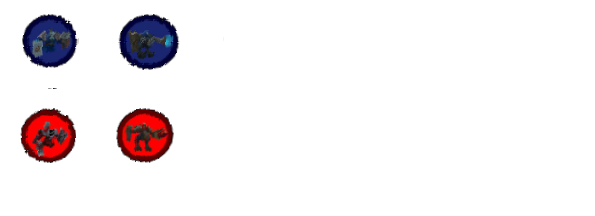
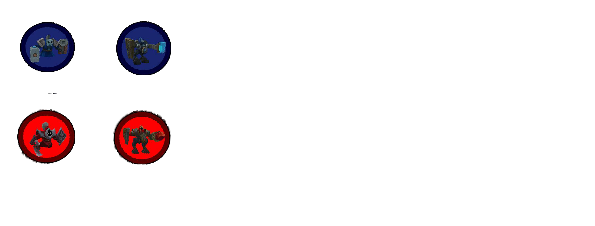
Mejora de imagenes

diff --git a/Chess/Content/chess.css b/Chess/Content/chess.css
@@ -112,13 +112,13 @@ div.blackPawn
     z-index:99;*/
 }
 
-Crown
+div.blackCrown
 {
     background-position: -110px -15px;
     background-image: url('../Content/pieces.png');
     background-repeat: no-repeat;
     float: left;
-    width: 73px;
+    width: 60px;
     height: 60px;
     /*position:absolute;
     z-index:99;*/
@@ -130,6 +130,6 @@ div.whiteCrown
     background-image: url('../Content/pieces.png');
     background-repeat: no-repeat;
     float: left;
-    width: 73px;
+    width: 60px;
     height: 60px;
 }

diff --git a/Chess/Controllers/HomeController.cs b/Chess/Controllers/HomeController.cs
@@ -138,37 +138,27 @@ namespace Chess.Controllers
                             }
                         }
                         isMoveable = true;
-
-                        /*if(piece.color == "White" && move.row == 1 && piece.name == "pawn")
+                        //Verificación para convertir la pieza en corona
+                        /*if (piece.name == "pawn" && (move.row == 1 || move.row == 8))
                         {
                             pieces Pieces = new pieces();//newCrown
                             Pieces.crown.col = move.col;
                             Pieces.crown.id = piece.id;
-                            Pieces.crown.row = move.col;
-                            Pieces.crown.color = "White";
-                            board.removePiece(piece.id);
-                            board.pieces.Add(Pieces.crown);
-                            crownID = piece.id;
-                        }
-                        else if (piece.color == "Black" && move.row == 8 && piece.name == "pawn")
-                        {
-                            pieces Pieces = new pieces();//newCrown
-                            Pieces.crown.col = move.col;
-                            Pieces.crown.id = piece.id;
-                            Pieces.crown.row = move.col;
-                            Pieces.crown.color = "Black";
+                            Pieces.crown.row = move.col;        
+                            piece.color = piece.color;
                             board.removePiece(piece.id);
                             board.pieces.Add(Pieces.crown);
                             crownID = piece.id;
                         }*/
-                        /*pieces Pieces = new pieces();//newCrown
+                        //PARCHE, Convierte una ficha en crown
+                        pieces Pieces = new pieces();//newCrown
                         Pieces.crown.col = move.col;
                         Pieces.crown.id = piece.id;
-                        Pieces.crown.row = move.row;
-                        Pieces.crown.color = piece.color;
+                        Pieces.crown.row = move.col;
+                        piece.color = piece.color;
                         board.removePiece(piece.id);
                         board.pieces.Add(Pieces.crown);
-                        crownID = piece.id;*/
+                        crownID = piece.id;
 
                         break;
                     }

diff --git a/Chess/Models/Board.cs b/Chess/Models/Board.cs
@@ -81,7 +81,7 @@ namespace Chess.Models
                 return true;
             }
             if (col > 1 && row < 6 &&
-               getPiece(row + 1, col - 1).color == "White" && getPiece(row + 2, col - 2).color == "Bank") // check jump to the left
+               getPiece(row + 1, col - 1).color == "White" && getPiece(row + 2, col - 2).color == "Blank") // check jump to the left
             {
                 return true;
             }
